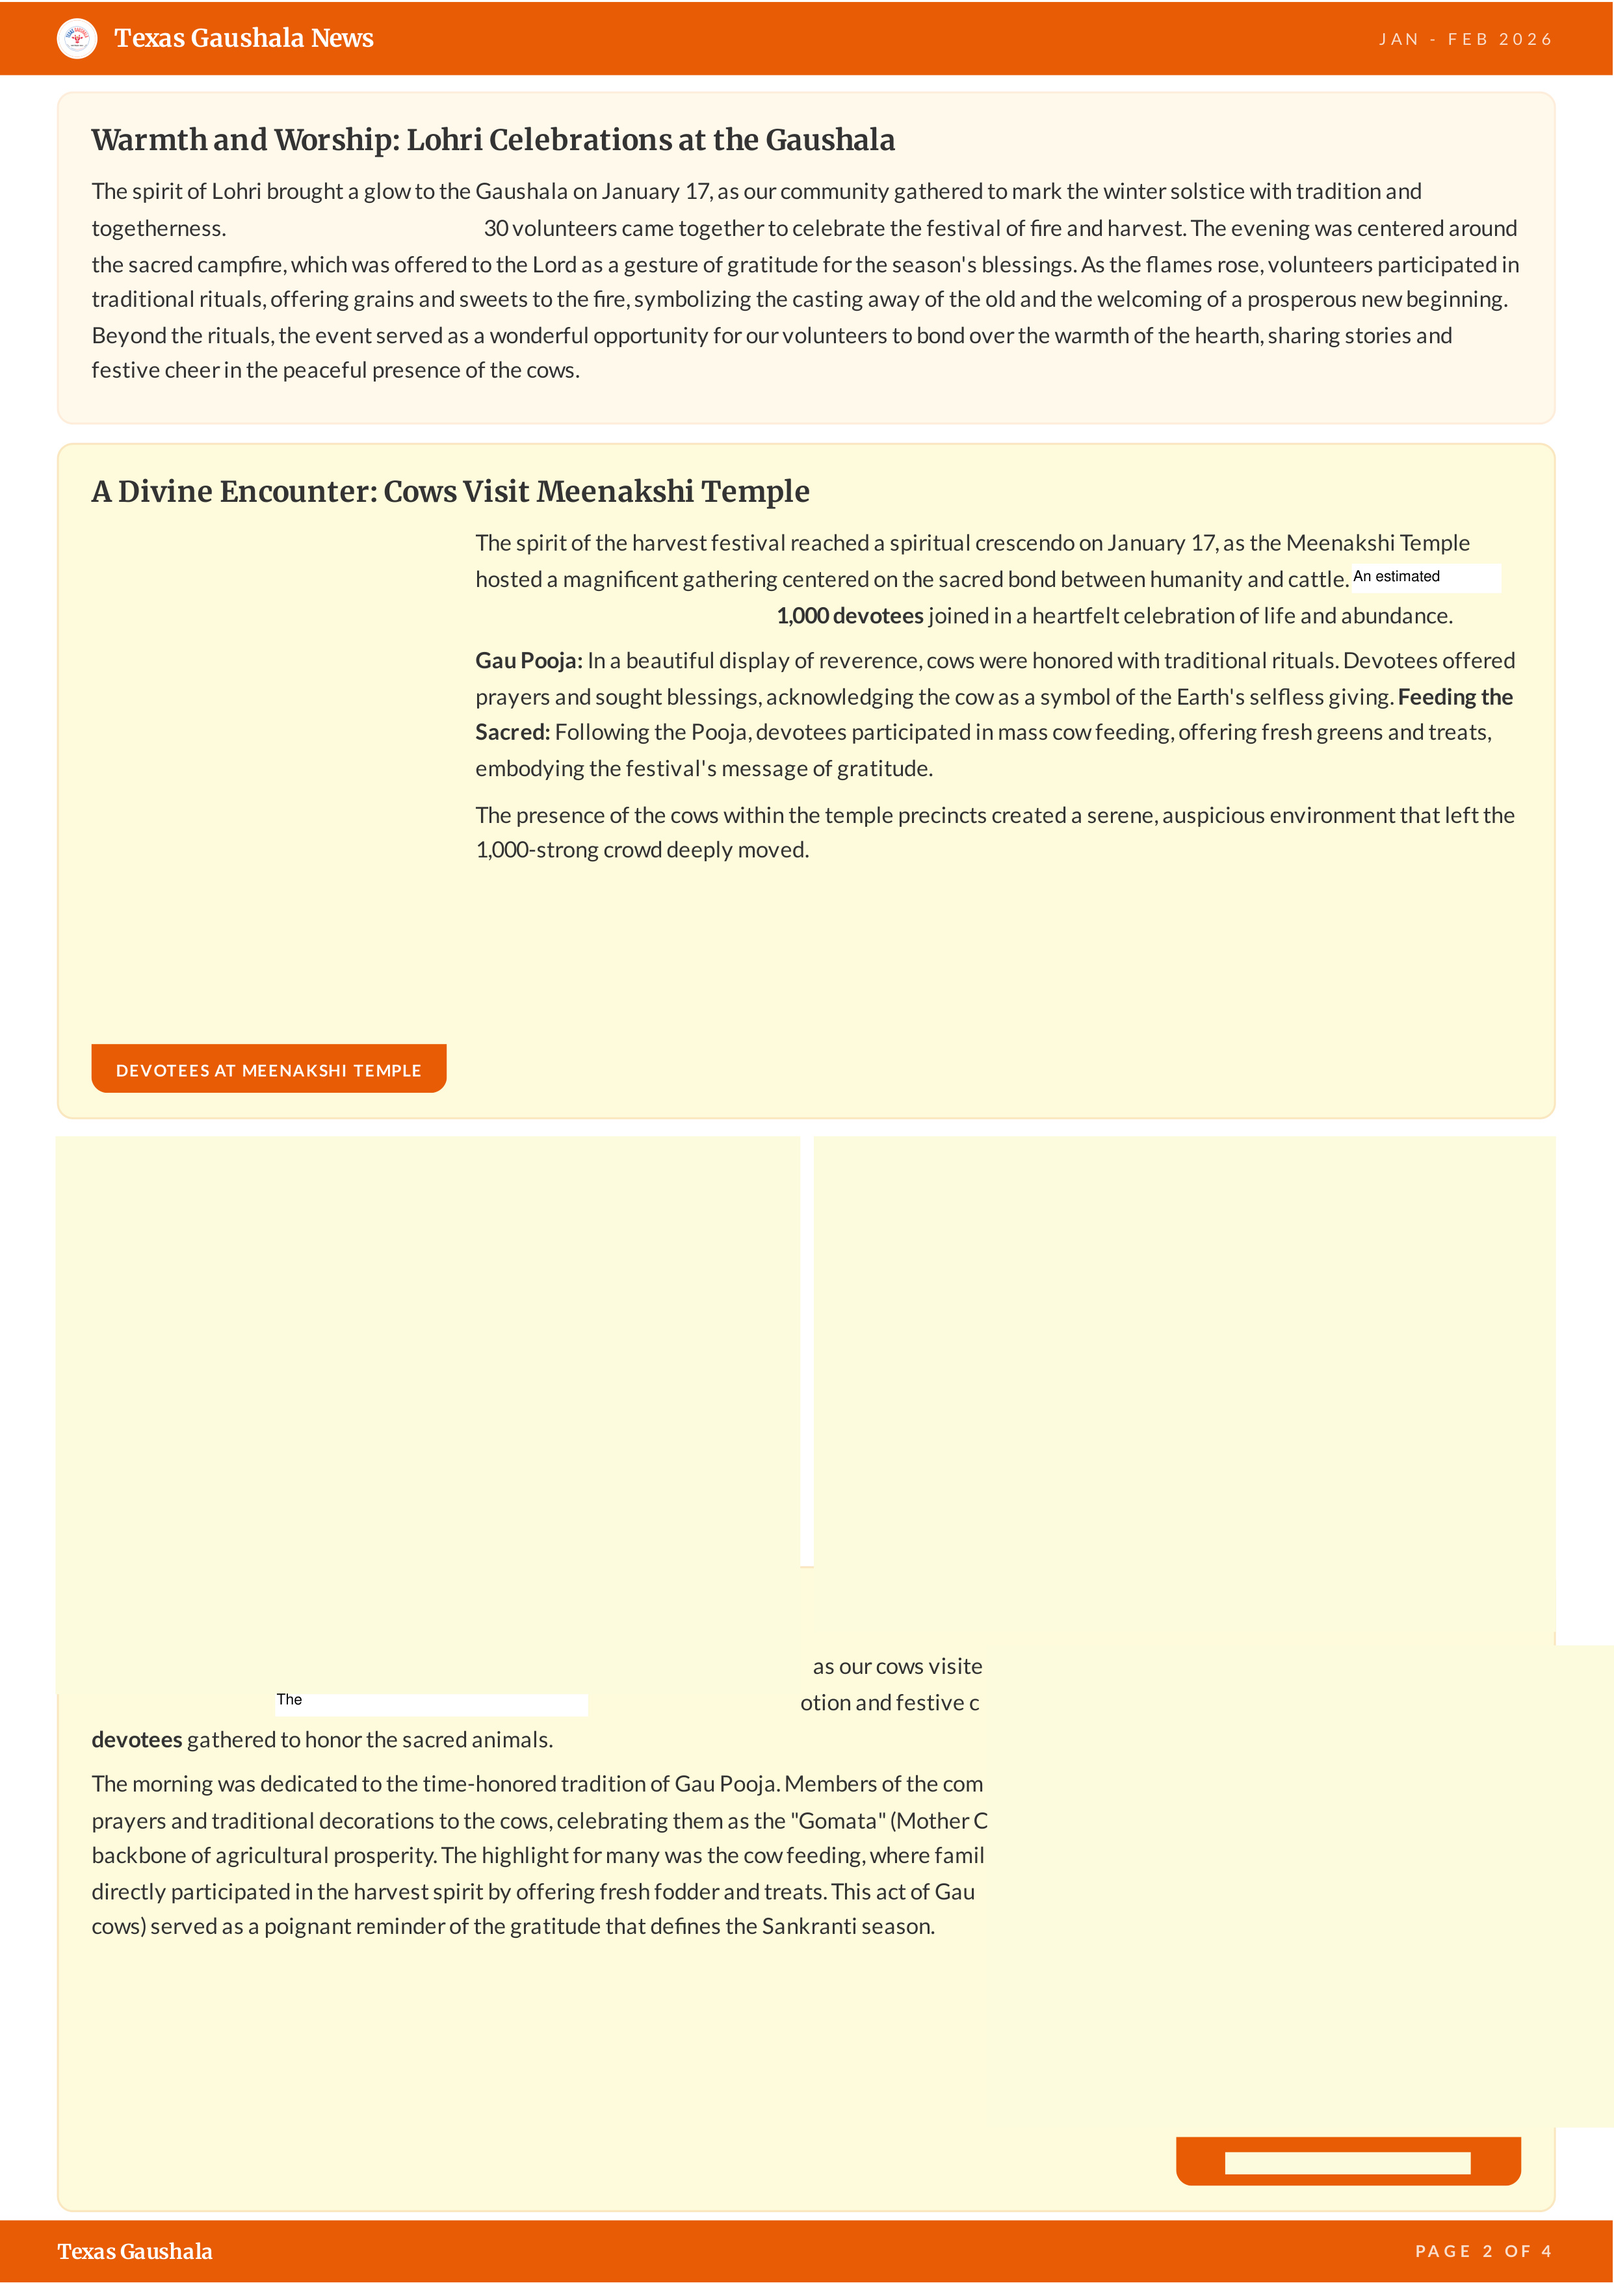
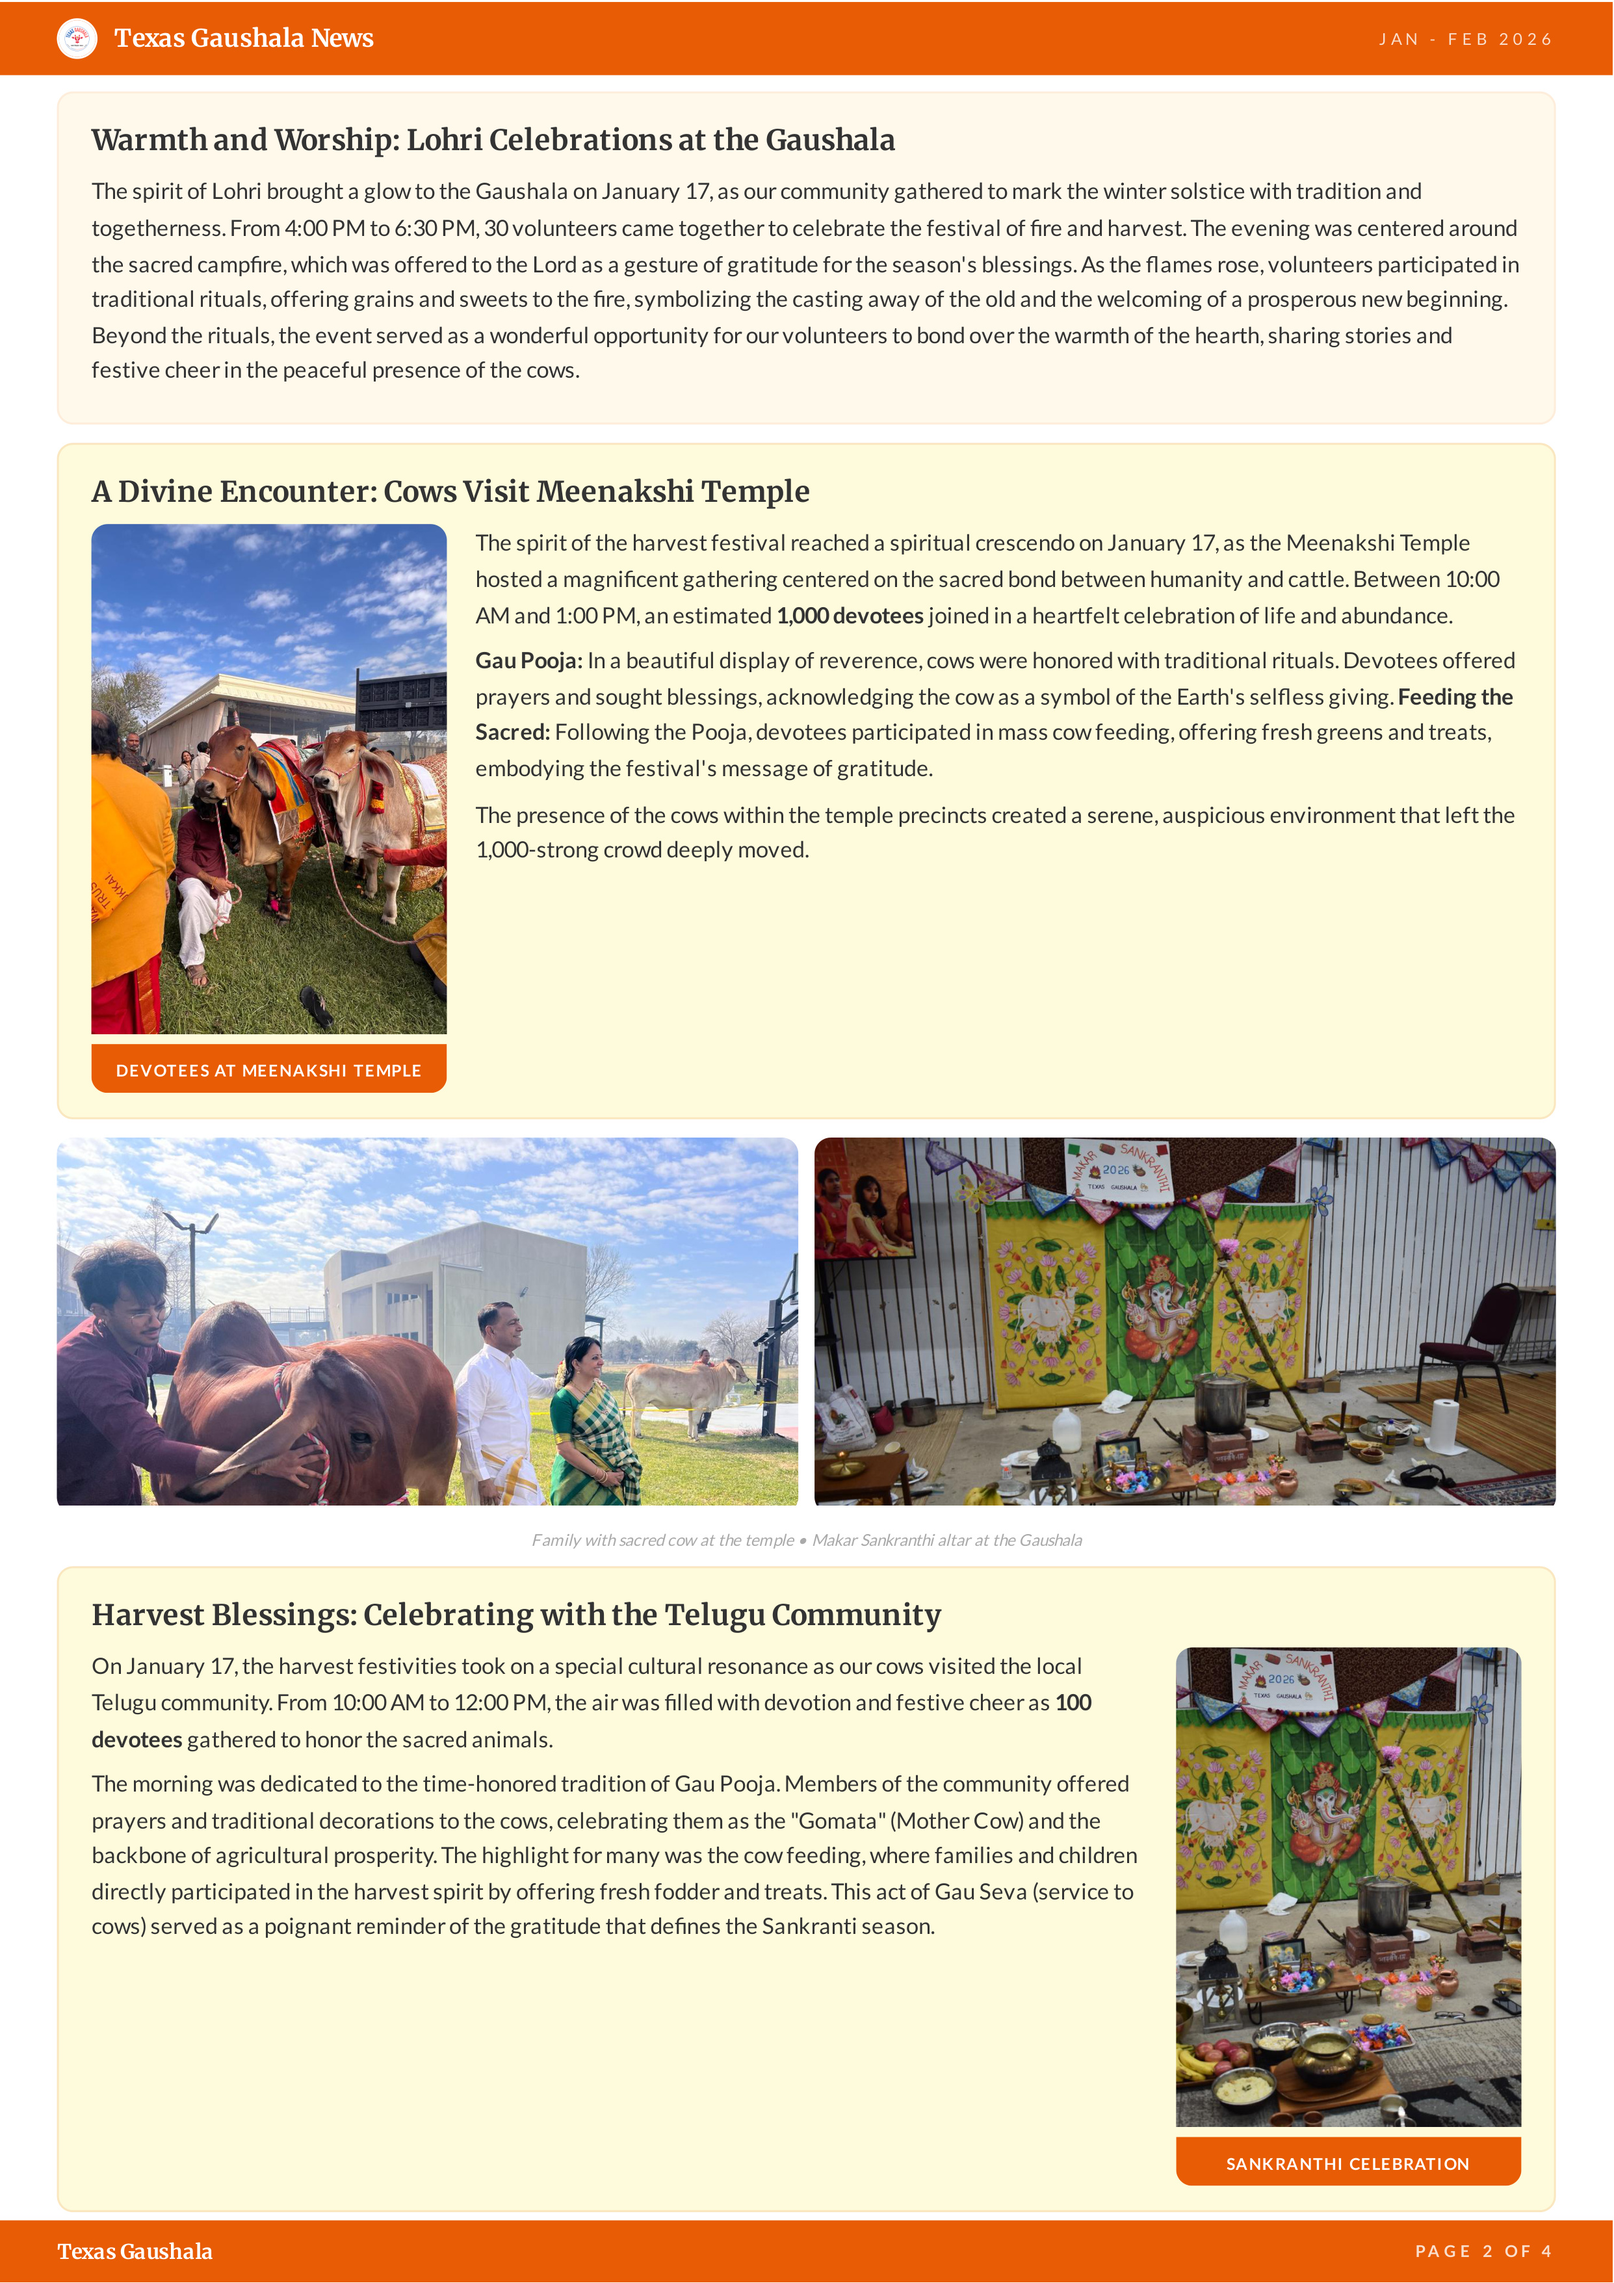
fix: page 2 back to ORIGINAL unedited render - overlay patches for times, Telugu photos cover old images

Changed region(s): [[0.031, 0.4966, 1.0, 0.9621], [0.031, 0.2173, 0.2791, 0.4655], [0.8373, 0.2483, 0.9303, 0.2793]]

diff --git a/index.html b/index.html
@@ -107,39 +107,51 @@ Sacred Pooja: A morning ceremony held at the Gaushala to offer thanks and seek b
 <div class="pw" id="p2">
   <img class="bg" src="images_new/page-2.jpg">
 
-  <!-- P2: Header (transparent .tz on original page text) -->
+  <!-- P2: Header -->
   <div class="iz" id="img-logo-2" data-label="Logo P2" style="left:3.7%;top:0.9%;width:2.2%;height:1.5%;" onclick="si(this)"><span class="lb">Logo</span></div>
-  <div class="tz" contenteditable="true" style="left:7%;top:1.1%;width:16%;height:1.2%;font-size:12px;font-weight:700;">Texas Gaushala News</div>
-  <div class="tz" contenteditable="true" style="left:85%;top:1.1%;width:13%;height:1%;font-size:8px;letter-spacing:2px;text-align:right;">JAN - FEB 2026</div>
+  <div class="tz" contenteditable="true" style="left:7%;top:1.1%;width:16%;height:1.2%;font-size:12px;font-weight:700;"></div>
+  <div class="tz" contenteditable="true" style="left:85%;top:1.1%;width:13%;height:1%;font-size:8px;letter-spacing:2px;text-align:right;"></div>
 
-  <!-- P2: Lohri section (text y=5.5%-16.6%) - transparent overlay on page text, no photo overlap -->
+  <!-- P2: Lohri section - transparent overlays on original page text -->
   <div class="tz" contenteditable="true" style="left:5.5%;top:5.5%;width:90%;height:1.4%;font-size:12px;font-weight:700;font-family:Georgia,serif;"></div>
   <div class="tz" contenteditable="true" style="left:5.5%;top:7.6%;width:90%;height:9%;font-size:8.5px;line-height:1.55;font-family:Georgia,serif;"></div>
+  <!-- Cover time reference "From 4:00 PM to 6:30 PM, " with white patch -->
+  <div style="position:absolute;left:14.5%;top:9.3%;width:16%;height:1.2%;background:#FFF9ED;z-index:5;"></div>
 
-  <!-- P2: Meenakshi Temple section (heading y=20.9%, text y=23.1%-36.6%, caption y=46.5%) -->
+  <!-- P2: Lohri fire photo overlay (right side, NOT overlapping text) -->
+  <!-- Original text runs to ~93% width, so place lohri photo BELOW text instead -->
+
+  <!-- P2: Temple section - transparent overlays -->
   <div class="iz" id="img-temple" data-label="Meenakshi Temple" style="left:-4.4%;top:23%;width:42%;height:22.3%;" onclick="si(this)"><span class="lb">Temple</span></div>
   <div class="tz" contenteditable="true" style="left:5.5%;top:20.8%;width:55%;height:1.4%;font-size:12px;font-weight:700;font-family:Georgia,serif;"></div>
   <div class="tz" contenteditable="true" style="left:29.5%;top:23%;width:67%;height:14.5%;font-size:8.5px;line-height:1.55;font-family:Georgia,serif;"></div>
+  <!-- Cover time reference "Between 10:00 AM and 1:00 PM, an" -->
+  <div style="position:absolute;left:57%;top:24.7%;width:36%;height:1.2%;background:#FFF9ED;z-index:5;"></div>
+  <div style="position:absolute;left:29.5%;top:26.3%;width:18%;height:1.2%;background:#FFF9ED;z-index:5;"></div>
   <div class="tz" contenteditable="true" style="left:5%;top:46.4%;width:20%;height:1%;font-size:7px;font-weight:700;letter-spacing:1px;text-align:center;"></div>
 
-  <!-- P2: Image area (y=49.8%-93%) - family cow + altar removed, cream fill -->
-  <!-- Telugu photos placed here as HTML cards -->
-  <div class="iz" id="img-telugu-group1" data-label="Telugu Group 1" style="left:3.5%;top:50%;width:46%;height:17%;border-radius:6px;overflow:hidden;" onclick="si(this)">
+  <!-- P2: Image area - cover original family cow + altar with Telugu photos -->
+  <!-- Original images: family cow y=49.8%-74.1% left, altar y=49.8%-71.4% right, altar2 y=72.2%-93.1% right -->
+  <div class="iz" id="img-telugu-group1" data-label="Telugu Group 1" style="left:3.5%;top:49.8%;width:46%;height:24.3%;border-radius:6px;overflow:hidden;" onclick="si(this)">
     <img src="images_new/telugu-group1.jpg" style="width:100%;height:100%;object-fit:cover;object-position:center 30%;position:absolute;top:0;left:0;">
     <span class="lb">Telugu Group 1</span>
   </div>
-  <div class="iz" id="img-telugu-cow" data-label="Telugu Cow" style="left:51%;top:50%;width:46%;height:8%;border-radius:6px;overflow:hidden;" onclick="si(this)">
+  <div class="iz" id="img-telugu-cow" data-label="Telugu Cow" style="left:51%;top:49.8%;width:46%;height:11.5%;border-radius:6px;overflow:hidden;" onclick="si(this)">
     <img src="images_new/telugu-cow.jpg" style="width:100%;height:100%;object-fit:cover;position:absolute;top:0;left:0;">
     <span class="lb">Telugu Cow</span>
   </div>
-  <div class="iz" id="img-telugu-group2" data-label="Telugu Group 2" style="left:51%;top:59%;width:46%;height:8%;border-radius:6px;overflow:hidden;" onclick="si(this)">
+  <div class="iz" id="img-telugu-group2" data-label="Telugu Group 2" style="left:51%;top:62%;width:46%;height:11.5%;border-radius:6px;overflow:hidden;" onclick="si(this)">
     <img src="images_new/telugu-group2.jpg" style="width:100%;height:100%;object-fit:cover;object-position:center 30%;position:absolute;top:0;left:0;">
     <span class="lb">Telugu Group 2</span>
   </div>
+  <!-- Cover old captions with cream -->
+  <div style="position:absolute;left:4%;top:66.8%;width:60%;height:1%;background:#FDFCDD;z-index:5;"></div>
 
-  <!-- P2: Harvest Blessings section (heading y=70.1%, text y=72.4%-83.7%) - transparent overlay -->
+  <!-- P2: Harvest Blessings - transparent overlays on original text -->
   <div class="tz" contenteditable="true" style="left:5.5%;top:70%;width:60%;height:1.4%;font-size:12px;font-weight:700;font-family:Georgia,serif;"></div>
   <div class="tz" contenteditable="true" style="left:5.5%;top:72.3%;width:90%;height:12%;font-size:8.5px;line-height:1.55;font-family:Georgia,serif;"></div>
+  <!-- Cover time reference "From 10:00 AM to 12:00 PM, the" -->
+  <div style="position:absolute;left:19%;top:73.9%;width:17%;height:1.2%;background:#FDFCDD;z-index:5;"></div>
 
   <!-- P2: Footer -->
   <div class="tz" contenteditable="true" style="left:3.5%;top:98%;width:10%;height:0.8%;font-size:10px;font-weight:700;"></div>
